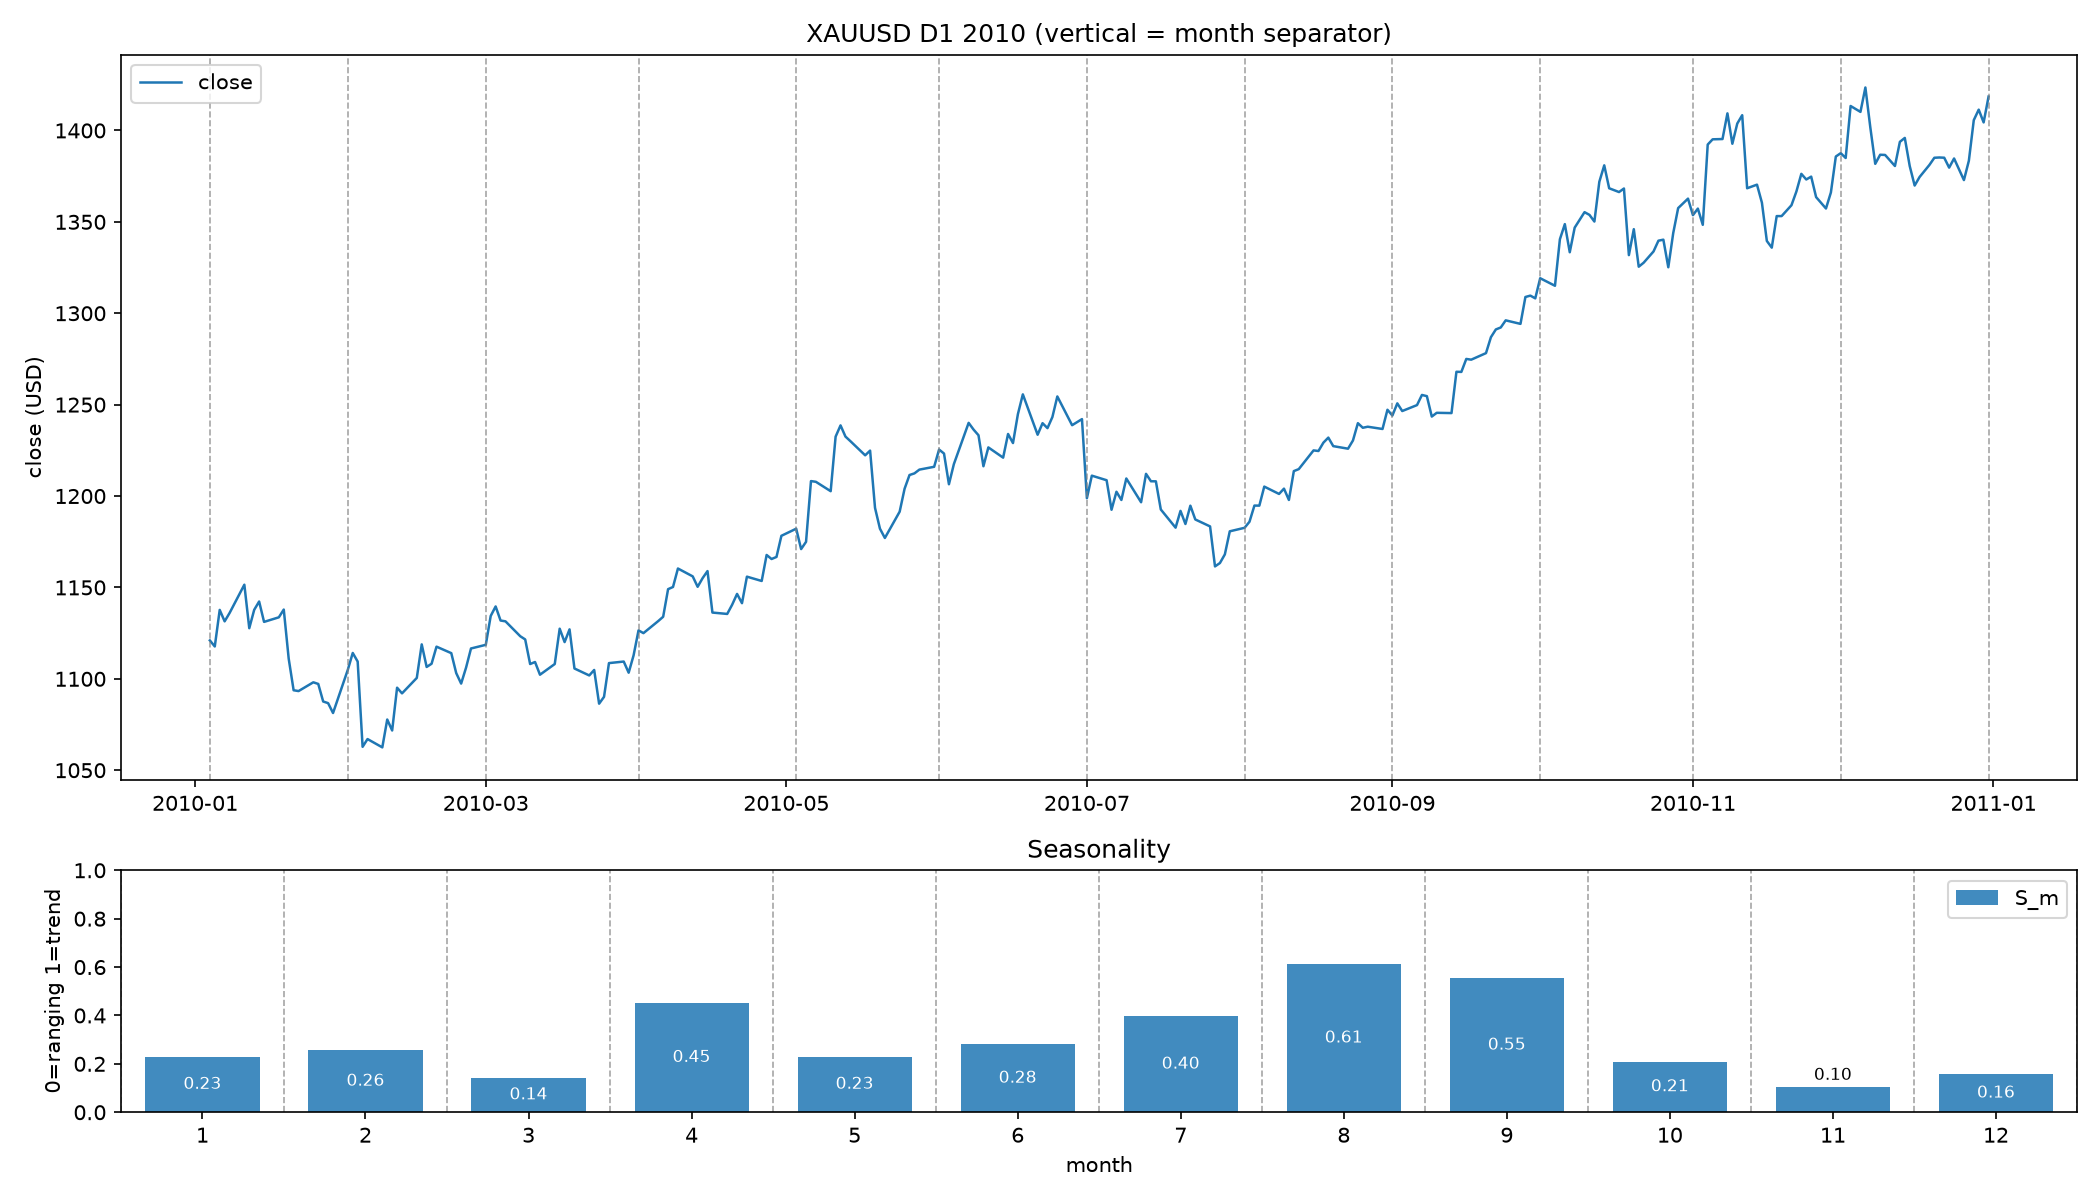
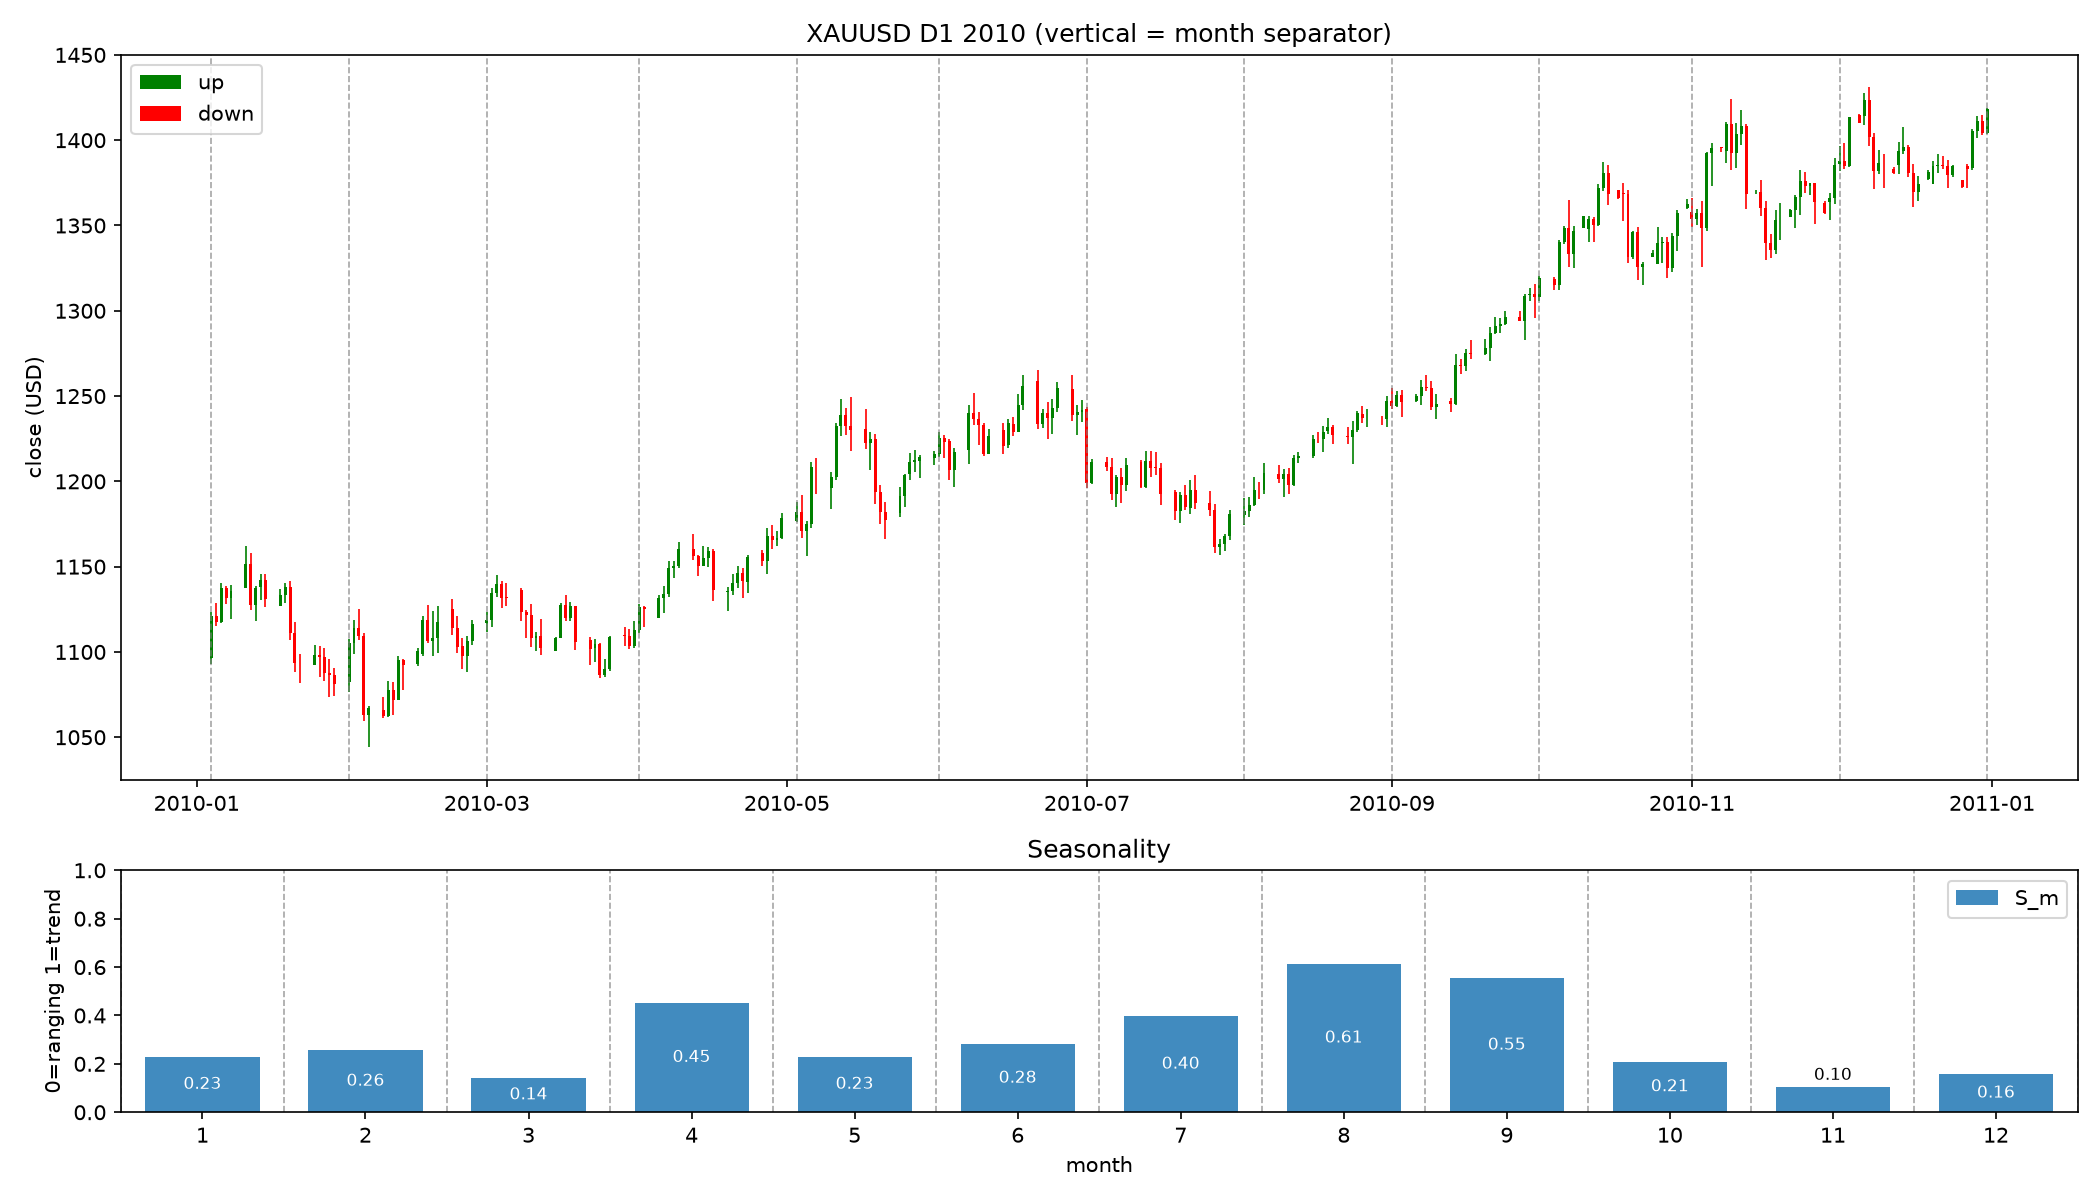
feat(charts): candlestick top panel; chore: ruff clean
Top panel of yearly drawings uses green/red candlesticks with wicks instead of close line (hand-rolled, no new dep). ruff check and ruff format --check pass with zero warnings (datetime.UTC, set comprehension, narrow kendalltau except). Validation 12/12 PASS.

diff --git a/4-charts.py b/4-charts.py
@@ -1,6 +1,6 @@
-"""Yearly drawings: raw close + calendar-month seasonality together.
+"""Yearly drawings: candlesticks + calendar-month seasonality together.
 
-Top: daily close with month separators. Bottom: S_m bars, q_m line,
+Top: daily candlesticks with month separators. Bottom: S_m bars, q_m line,
 T components (0-1). One PNG per year in charts/yearly/xauusd_YYYY.png.
 Prices from data/xauusd_d1.parquet (real bars); features from
 data/monthly_features.parquet (no recompute).
@@ -26,13 +26,32 @@ def draw_year(year: int, real: pl.DataFrame, feat: pl.DataFrame) -> Path:
     if yd.height == 0:
         raise SystemExit(f"no rows for {year}")
     dates = yd["date"].to_list()
+    opens = yd["open"].to_list()
+    highs = yd["high"].to_list()
+    lows = yd["low"].to_list()
     closes = yd["close"].to_list()
     months = yf["month"].to_list()
 
     fig, (ax_p, ax_s) = plt.subplots(
         2, 1, figsize=(14, 8), gridspec_kw={"height_ratios": [3, 1]}
     )
-    ax_p.plot(dates, closes, linewidth=1.2, label="close")
+    up = [c >= o for c, o in zip(closes, opens)]
+    dn = [not u for u in up]
+    for flag, color, label in ((up, "green", "up"), (dn, "red", "down")):
+        d = [x for x, f in zip(dates, flag) if f]
+        o = [x for x, f in zip(opens, flag) if f]
+        h = [x for x, f in zip(highs, flag) if f]
+        lo = [x for x, f in zip(lows, flag) if f]
+        c = [x for x, f in zip(closes, flag) if f]
+        ax_p.vlines(d, lo, h, colors=color, linewidths=0.8)
+        ax_p.bar(
+            d,
+            [ci - oi for ci, oi in zip(c, o)],
+            bottom=o,
+            width=0.6,
+            color=color,
+            label=label,
+        )
     seen: dict = {}
     for d in dates:
         seen.setdefault(d.month, d)

diff --git a/tmp.py b/tmp.py
@@ -1,4 +1,4 @@
-"""XAUUSD 2025: raw close + seasonality together (mirrors 4-charts.py)."""
+"""XAUUSD 2025: candlesticks + seasonality together (mirrors 4-charts.py)."""
 
 from pathlib import Path
 
@@ -25,13 +25,32 @@ def main() -> None:
     if yd.height == 0:
         raise SystemExit(f"no rows for {YEAR}")
     dates = yd["date"].to_list()
+    opens = yd["open"].to_list()
+    highs = yd["high"].to_list()
+    lows = yd["low"].to_list()
     closes = yd["close"].to_list()
     months = yf["month"].to_list()
 
     fig, (ax_p, ax_s) = plt.subplots(
         2, 1, figsize=(14, 8), gridspec_kw={"height_ratios": [3, 1]}
     )
-    ax_p.plot(dates, closes, linewidth=1.2, label="close")
+    up = [c >= o for c, o in zip(closes, opens)]
+    dn = [not u for u in up]
+    for flag, color, label in ((up, "green", "up"), (dn, "red", "down")):
+        d = [x for x, f in zip(dates, flag) if f]
+        o = [x for x, f in zip(opens, flag) if f]
+        h = [x for x, f in zip(highs, flag) if f]
+        lo = [x for x, f in zip(lows, flag) if f]
+        c = [x for x, f in zip(closes, flag) if f]
+        ax_p.vlines(d, lo, h, colors=color, linewidths=0.8)
+        ax_p.bar(
+            d,
+            [ci - oi for ci, oi in zip(c, o)],
+            bottom=o,
+            width=0.6,
+            color=color,
+            label=label,
+        )
     seen: dict = {}
     for d in dates:
         seen.setdefault(d.month, d)

diff --git a/1-download.py b/1-download.py
@@ -9,7 +9,7 @@
 """
 
 import sys
-from datetime import datetime, timedelta, timezone
+from datetime import UTC, datetime, timedelta
 from pathlib import Path
 
 import holidays
@@ -71,10 +71,7 @@ def main() -> None:
     df = (
         pl.DataFrame(
             {
-                "time": [
-                    datetime.fromtimestamp(int(r["time"]), tz=timezone.utc)
-                    for r in rates
-                ],
+                "time": [datetime.fromtimestamp(int(r["time"]), tz=UTC) for r in rates],
                 "open": [float(r["open"]) for r in rates],
                 "high": [float(r["high"]) for r in rates],
                 "low": [float(r["low"]) for r in rates],
@@ -124,8 +121,7 @@ def main() -> None:
         fill_df = pl.DataFrame(
             {
                 "time": [
-                    datetime(d.year, d.month, d.day, tzinfo=timezone.utc)
-                    for d, _ in filled_rows
+                    datetime(d.year, d.month, d.day, tzinfo=UTC) for d, _ in filled_rows
                 ],
                 "open": [c for _, c in filled_rows],
                 "high": [c for _, c in filled_rows],

diff --git a/2-seasonality.py b/2-seasonality.py
@@ -70,7 +70,7 @@ def month_features(h: np.ndarray, low: np.ndarray, c: np.ndarray, c0: float):
     p = np.concatenate([[np.log(c0)], np.log(c)])
     try:
         tau, _ = kendalltau(np.arange(n + 1), p)
-    except Exception:
+    except ValueError:
         tau = np.nan
     t_mono = float(abs(tau)) if tau is not None and np.isfinite(tau) else 0.0
     t_mono = float(np.clip(t_mono, 0, 1))
@@ -86,7 +86,7 @@ def month_features(h: np.ndarray, low: np.ndarray, c: np.ndarray, c0: float):
 def build_monthly(real: pl.DataFrame) -> pl.DataFrame:
     times = real["time"].to_list()
     closes_all = real["close"].to_list()
-    yms = sorted(set((d.year, d.month) for d in real["date"].to_list()))
+    yms = sorted({(d.year, d.month) for d in real["date"].to_list()})
     rows = []
     for y, m in yms:
         mb = real.filter(
